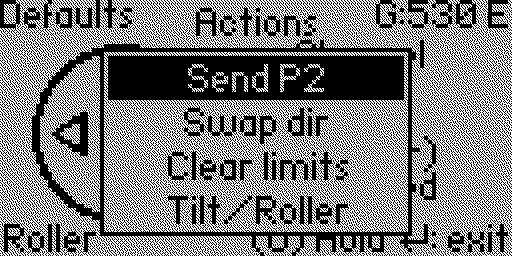
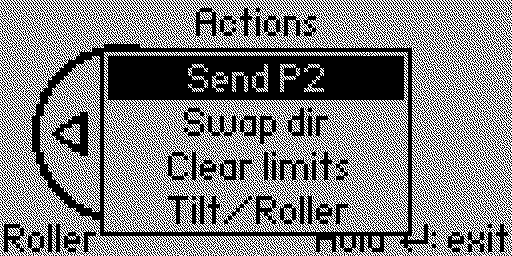
Latest Release on PATREON - UPD DOOYA

diff --git a/applications/external/dooya_remote/dooya_remote.c b/applications/external/dooya_remote/dooya_remote.c
@@ -26,7 +26,7 @@
 #include "dooya_remote_icons.h"
 
 #define APP_NAME    "Dooya Remote"
-#define APP_VERSION "1.0"
+#define APP_VERSION "1.1"
 #define APP_REPO    "github.com/Lechnio"
 
 #define APP_FOLDER    EXT_PATH("dooya_remote")
@@ -40,6 +40,9 @@
 #define DEFAULTS_DST  APP_FOLDER "/" DEFAULTS_NAME
 
 #define SUBGHZ_FREQ 433920000UL
+
+#define DOOYA_FRAME_MS      50 // one Dooya frame on air
+#define PROGRESS_MIN_FRAMES 20 // show the group progress bar past this (~1s)
 
 #define MAX_SERIALS 32
 #define SERIAL_LEN  3
@@ -197,6 +200,11 @@ struct App {
     volatile bool tx_abort;
     volatile bool tx_cancel; // abort was a user Back-cancel (show "Canceled")
     volatile bool tx_busy;
+    volatile uint32_t tx_prog_done; // frames put on air so far
+    uint32_t tx_prog_total; // frames this send will put on air
+    uint32_t tx_combos_total; // wildcard-expanded serials in this send
+    uint32_t tx_rep_sum; // frames sent per expanded serial (sum of reps)
+    bool tx_show_progress; // this send is long enough for the progress panel
     uint8_t p_btns[3];
     uint16_t p_reps[3];
     uint8_t p_nbtn;
@@ -284,6 +292,41 @@ static uint32_t effective_count(App* app) {
         total = (total > 0xFFFFFFFFu - e) ? 0xFFFFFFFFu : total + e;
     }
     return total;
+}
+
+// Keeps huge wildcard totals (a ****** serial is 16777216) short enough to fit;
+// a leading '>' marks the value as rounded down.
+static void fmt_count(char* buf, size_t n, uint32_t v) {
+    if(v < 10000)
+        snprintf(buf, n, "%lu", (unsigned long)v);
+    else if(v < 1000000)
+        snprintf(buf, n, ">%luk", (unsigned long)(v / 1000));
+    else
+        snprintf(buf, n, ">%luM", (unsigned long)(v / 1000000));
+}
+
+static void fmt_eta(char* buf, size_t n, uint32_t s) {
+    uint32_t d = s / 86400;
+    s %= 86400;
+    uint32_t h = s / 3600;
+    s %= 3600;
+    uint32_t m = s / 60;
+    s %= 60;
+    if(d)
+        snprintf(
+            buf,
+            n,
+            "%lud %luh %lum %lus",
+            (unsigned long)d,
+            (unsigned long)h,
+            (unsigned long)m,
+            (unsigned long)s);
+    else if(h)
+        snprintf(buf, n, "%luh %lum %lus", (unsigned long)h, (unsigned long)m, (unsigned long)s);
+    else if(m)
+        snprintf(buf, n, "%lum %lus", (unsigned long)m, (unsigned long)s);
+    else
+        snprintf(buf, n, "%lus", (unsigned long)s);
 }
 
 // Draw a serial so digits line up regardless of their widths: each hex digit
@@ -458,6 +501,7 @@ static void tx_frame_once(App* app, const SubGhzDevice* dev, uint8_t idx, uint8_
         uint8_t bytes[SERIAL_LEN] = {
             (nib[0] << 4) | nib[1], (nib[2] << 4) | nib[3], (nib[4] << 4) | nib[5]};
         tx_emit(app, dev, bytes, app->serial_mode[idx], btn);
+        app->tx_prog_done++;
     }
 }
 
@@ -561,6 +605,16 @@ static void tx_start(
     app->tx_abort = false;
     app->tx_cancel = false;
     app->tx_busy = true;
+
+    uint32_t rep_sum = 0;
+    for(uint8_t i = 0; i < nbtn; i++)
+        rep_sum += reps[i];
+    uint64_t frames = (uint64_t)effective_count(app) * rep_sum;
+    app->tx_prog_total = frames > 0xFFFFFFFFu ? 0xFFFFFFFFu : (uint32_t)frames;
+    app->tx_prog_done = 0;
+    app->tx_combos_total = effective_count(app);
+    app->tx_rep_sum = rep_sum ? rep_sum : 1;
+    app->tx_show_progress = !jog && app->tx_prog_total >= PROGRESS_MIN_FRAMES;
 
     if(overlay) {
         with_view_model(
@@ -801,6 +855,43 @@ static void mk_items(uint8_t k, const char** out) {
     }
 }
 
+// Centered, titled panel, matching the limit/action menus. The counter shows
+// wildcard-expanded serials handled, so one two-star serial runs 0..256.
+static void draw_progress(Canvas* c, App* app, const char* act) {
+    canvas_set_font(c, FontSecondary);
+    char title[32];
+    if(act && act[0])
+        snprintf(title, sizeof(title), "Sending %s...", act);
+    else
+        snprintf(title, sizeof(title), "Sending...");
+    canvas_draw_str_aligned(c, 64, 9, AlignCenter, AlignBottom, title);
+
+    const int bx = 14, by = 12, bw = 100, bh = 44;
+    canvas_set_color(c, ColorWhite);
+    canvas_draw_box(c, bx, by, bw, bh);
+    canvas_set_color(c, ColorBlack);
+    canvas_draw_frame(c, bx, by, bw, bh);
+
+    uint32_t frames = app->tx_prog_total;
+    uint32_t fdone = app->tx_prog_done;
+    if(fdone > frames) fdone = frames;
+    elements_progress_bar(
+        c, bx + 5, by + 6, bw - 10, frames ? (float)fdone / (float)frames : 0.0f);
+
+    uint32_t total = app->tx_combos_total;
+    uint32_t done = app->tx_rep_sum ? app->tx_prog_done / app->tx_rep_sum : 0;
+    if(done > total) done = total;
+    char line[32];
+    snprintf(line, sizeof(line), "%lu/%lu", (unsigned long)done, (unsigned long)total);
+    canvas_draw_str_aligned(c, 64, by + 26, AlignCenter, AlignBottom, line);
+
+    uint64_t rem_ms = (uint64_t)(frames - fdone) * DOOYA_FRAME_MS;
+    char eta[24];
+    fmt_eta(eta, sizeof(eta), (uint32_t)((rem_ms + 999) / 1000));
+    snprintf(line, sizeof(line), "%s left", eta);
+    canvas_draw_str_aligned(c, 64, by + 38, AlignCenter, AlignBottom, line);
+}
+
 static void remote_draw(Canvas* c, void* ctx) {
     RemoteModel* m = ctx;
     App* app = m->app;
@@ -809,19 +900,19 @@ static void remote_draw(Canvas* c, void* ctx) {
     canvas_set_color(c, ColorBlack);
     canvas_set_font(c, FontSecondary);
 
-    char hdr[16];
-    strncpy(hdr, app->name[0] ? app->name : "<unsaved>", sizeof(hdr) - 1);
-    hdr[sizeof(hdr) - 1] = '\0';
-    canvas_draw_str(c, 0, 7, hdr);
+    // A titled overlay (menu / progress / sending box) sits where the file name
+    // and the right-hand column would be, so both are hidden while one is up.
+    bool overlay = (m->mode == RmMenu) || (m->mode == RmSending) ||
+                   (app->tx_busy && app->tx_show_progress);
 
-    char tag[24];
-    const char* rad = app->radio_ext ? "E" : "I";
-    const char* dsuf = all_disabled(app) ? " (D)" : "";
-    if(app->count == 1 && app->serial_wild[0] == 0)
-        snprintf(tag, sizeof(tag), "S%s %s", dsuf, rad);
-    else
-        snprintf(tag, sizeof(tag), "G:%lu%s %s", (unsigned long)effective_count(app), dsuf, rad);
-    canvas_draw_str_aligned(c, SCREEN_W - 1, 7, AlignRight, AlignBottom, tag);
+    if(!overlay) {
+        char hdr[16]; // caps the shown file name at 15 characters
+        strncpy(hdr, app->name[0] ? app->name : "<unsaved>", sizeof(hdr) - 1);
+        hdr[sizeof(hdr) - 1] = '\0';
+        canvas_draw_str(c, 0, 7, hdr);
+        canvas_draw_str_aligned(
+            c, SCREEN_W - 1, 7, AlignRight, AlignBottom, app->radio_ext ? "Ext" : "Int");
+    }
 
     // Keypad is always drawn; the action menu / sending box overlay on top of it.
     const int cx = 30, cy = 33, R = 22;
@@ -850,18 +941,24 @@ static void remote_draw(Canvas* c, void* ctx) {
         canvas_set_color(c, ColorBlack);
     }
 
-    const int px = 90;
-    canvas_draw_str_aligned(c, px, 17, AlignCenter, AlignBottom, "Channel");
-    char ch[4];
-    snprintf(ch, sizeof(ch), "%u", app->channel);
-    canvas_set_font(c, FontBigNumbers);
-    canvas_draw_str_aligned(c, px, 34, AlignCenter, AlignBottom, ch);
-    canvas_set_font(c, FontSecondary);
-    if(app->channel == 0) {
-        canvas_draw_str_aligned(c, px, 42, AlignCenter, AlignBottom, "(master)");
-    }
-    if(app->cmd_name[0]) {
-        canvas_draw_str_aligned(c, px, 50, AlignCenter, AlignBottom, app->cmd_name);
+    const int px = 90; // centre for the action name
+    const int lx = 60; // left column for the serials / channel lines
+    if(!overlay) {
+        char cnt[12];
+        fmt_count(cnt, sizeof(cnt), effective_count(app));
+        char line[28];
+        snprintf(line, sizeof(line), "Serials: %s%s", cnt, all_disabled(app) ? " (D)" : "");
+        canvas_draw_str(c, lx, 25, line);
+
+        char ch[20];
+        if(app->channel == 0)
+            snprintf(ch, sizeof(ch), "Channel: 0 (m)");
+        else
+            snprintf(ch, sizeof(ch), "Channel: %u", app->channel);
+        canvas_draw_str(c, lx, 35, ch);
+
+        if(app->cmd_name[0])
+            canvas_draw_str_aligned(c, px, 49, AlignCenter, AlignBottom, app->cmd_name);
     }
 
     canvas_draw_str(c, 1, 63, app->tilt ? "Tilt" : "Roller");
@@ -878,6 +975,8 @@ static void remote_draw(Canvas* c, void* ctx) {
         const char* items[4];
         mk_items(m->menu_kind, items);
         draw_box_menu(c, mk_title(m->menu_kind), items, mk_count(m->menu_kind), m->menu_sel);
+    } else if(app->tx_busy && app->tx_show_progress) {
+        draw_progress(c, app, m->mode == RmSending ? m->sending : app->cmd_name);
     } else if(m->mode == RmSending) {
         canvas_set_color(c, ColorWhite);
         canvas_draw_box(c, 8, 22, 112, 26);
@@ -1855,6 +1954,13 @@ static bool custom_event_cb(void* ctx, uint32_t event) {
     return false;
 }
 
+// Redraws the keypad while a long group send runs, on the GUI thread, so the
+// progress panel advances without the worker ever touching the display.
+static void tick_cb(void* ctx) {
+    App* app = ctx;
+    if(app->tx_busy && app->tx_show_progress) remote_commit(app);
+}
+
 static void exit_to_main(App* app) {
     if(!app->dirty) {
         view_dispatcher_switch_to_view(app->vd, ViewMain);
@@ -1991,6 +2097,7 @@ int32_t dooya_remote_app(void* p) {
     app->vd = view_dispatcher_alloc();
     view_dispatcher_set_event_callback_context(app->vd, app);
     view_dispatcher_set_custom_event_callback(app->vd, custom_event_cb);
+    view_dispatcher_set_tick_event_callback(app->vd, tick_cb, 250);
 
     app->main_menu = submenu_alloc();
     build_main_menu(app);

diff --git a/lib/subghz/protocols/keeloq.c b/lib/subghz/protocols/keeloq.c
@@ -1741,8 +1741,7 @@ SubGhzProtocolStatus subghz_protocol_decoder_keeloq_serialize(
     // Written only for the half rate, so standard captures keep the exact file layout they
     // have always had and stay readable by older builds.
     uint32_t te_nominal = subghz_protocol_keeloq_te_nominal(instance->te);
-    if((res == SubGhzProtocolStatusOk) &&
-       (te_nominal != subghz_protocol_keeloq_const.te_short)) {
+    if((res == SubGhzProtocolStatusOk) && (te_nominal != subghz_protocol_keeloq_const.te_short)) {
         if(!flipper_format_write_uint32(flipper_format, "TE", &te_nominal, 1)) {
             FURI_LOG_E(TAG, "DECODER Serialize: Unable to add TE");
             res = SubGhzProtocolStatusError;

diff --git a/ReadMe.md b/ReadMe.md
@@ -189,6 +189,7 @@ This software is for experimental purposes only and is not meant for any illegal
 - Updated: [Temp Sensors Reader one-wire allocation and invalid GPIO checks (By quen0n; fixes by xMasterX)](https://github.com/xMasterX/all-the-plugins/commit/4b718695420ac9e9c4242eadf8308d9db6cd5949)
 - Updated: [BLE Clipboard v0.5.3 SD initialization for saved snapshots and transfers larger than 4 KiB (By otcan)](https://github.com/otcan/ble-clipboard/commit/0810291361b1e2308291a29f88363c05c24e72cf)
 - Sub-GHz: [KeeLoq remotes that send at half the usual rate (Te 200us) are now decoded, and sent back at the rate they were received at & Hormann HSM remotes whose frame starts with seven preamble ones instead of eight are now decoded (By xMasterX)](https://github.com/RogueMaster/flipperzero-firmware-wPlugins/commit/2d89f1e1f420fc011b2019fd100fd3deed216e5f)
+- Updated: [Dooya Remote v1.1 batch progress, remaining time and keypad layout (By Lechnio)](https://github.com/Lechnio/Dooya-Remote/commit/47f178f7e5e33594833f26af1bd2162bc60cb72e)
 
 <a name="release"></a>
 
@@ -643,7 +644,7 @@ This software is for experimental purposes only and is not meant for any illegal
 - [Distance Sensor v1.1 (By Sanqui)](https://github.com/Sanqui/flipperzero-firmware/tree/hc_sr04) `Req: HC-SR04`
 - [Distance Sensor v1.2 (By privet971)](https://github.com/privet971/FlipperZeroApps/tree/main/usping) `Req: Parallax (3 wires) SKU 28015`
 - [Doc Viewer Lite v0.1 (By C0d3-5t3w)](https://github.com/C0d3-5t3w/docviewlite)
-- [Dooya Remote v1.0 (By Lechnio)](https://github.com/Lechnio/Dooya-Remote)
+- [Dooya Remote v1.1 (By Lechnio)](https://github.com/Lechnio/Dooya-Remote)
 - [DroidBeacon v0.1 (By spandox2)](https://github.com/spandox2/droidbeacon)
 - [DropDetect Live v0.1 (By TheRealLuro)](https://github.com/TheRealLuro/Flipper-zero-drop-detector.-) `Req: ICM42688P IMU`
 - [DSTIKE Deauther v1.1 (By SequoiaSan)](https://github.com/SequoiaSan/FlipperZero-Wifi-ESP8266-Deauther-Module/tree/FlipperZero-Module-v2/FlipperZeroModule/FlipperZero-ESP8266-Deauth-App) `Req: ESP8266`

diff --git a/applications/external/dooya_remote/changelog.md b/applications/external/dooya_remote/changelog.md
@@ -1,16 +1,21 @@
+## v1.1
+
+- Add live overview of batch sending status.
+- Reorganize keypad UI.
+ 
 ## v1.0
 
-- Store a single remote or a group of serials in one file
-- Import serials from Dooya .sub captures
-- Add serials by hand as six hex digits
-- Wildcard digits (*) that expand to full ranges
-- Channels 0 to 15 with master address support
-- Per serial channel format (standard and mask)
-- Roller and tilt modes, with jog in tilt
-- Adjustable TX Count (1 to 5 frames per tap)
-- Disable serials without removing them
-- External CC1101 radio support
-- Save, rename and delete remotes with unsaved change tracking
-- Overwrite prompt when saving over an existing file
-- Cancel a transmission with Back
-- Bundled Defaults remote seeded on first launch
+- Store a single remote or a group of serials in one file.
+- Import serials from Dooya .sub captures.
+- Add serials by hand as six hex digits.
+- Wildcard digits (*) that expand to full ranges.
+- Channels 0 to 15 with master address support.
+- Per serial channel format (standard and mask).
+- Roller and tilt modes, with jog in tilt.
+- Adjustable TX Count (1 to 5 frames per tap).
+- Disable serials without removing them.
+- External CC1101 radio support.
+- Save, rename and delete remotes with unsaved change tracking.
+- Overwrite prompt when saving over an existing file.
+- Cancel a transmission with Back.
+- Bundled Defaults remote seeded on first launch.

diff --git a/applications/external/dooya_remote/README.md b/applications/external/dooya_remote/README.md
@@ -62,9 +62,9 @@ Editing a serial, adding a wildcard, and a disabled (struck out) row:
 
 Sending commands from the keypad:
 
-| Key pressed while sending | Actions menu (hold OK) | Limit menu (hold Up / Down) |
+| Sending batch | Actions menu (hold OK) | Limit menu (hold Up / Down) |
 |:---:|:---:|:---:|
-| ![Key pressed](docs/images/10-key-pressed.png) | ![Actions menu](docs/images/11-action-menu.png) | ![Limit menu](docs/images/12-limit-menu.png) |
+| ![Key pressed](docs/images/10-sending-key.png) | ![Actions menu](docs/images/11-action-menu.png) | ![Limit menu](docs/images/12-limit-menu.png) |
 
 ## Controls
 
